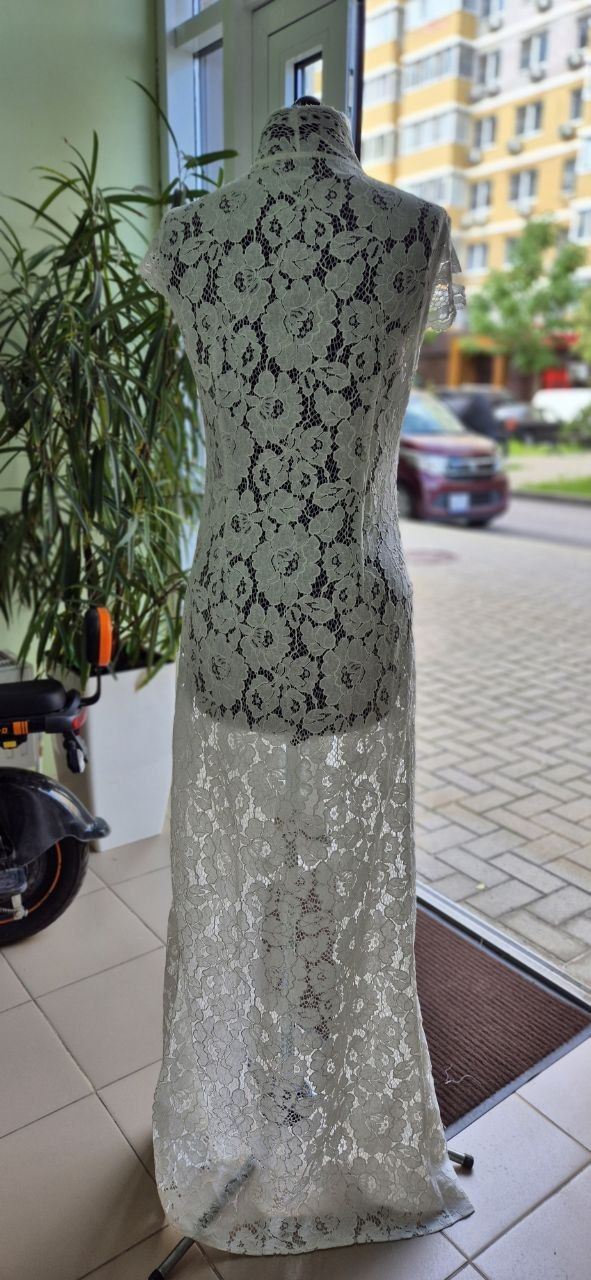
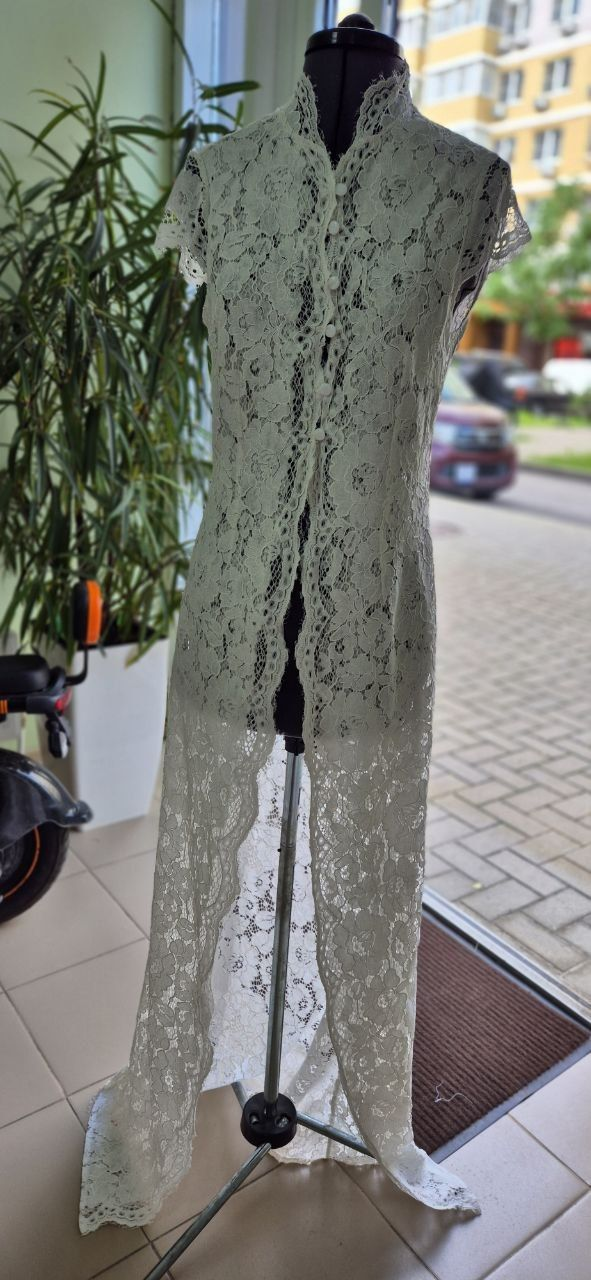
Первое фото галереи заменено на вид спереди
Тот же кружевной комплект, но видно перёд: застёжка на пуговицах
и разрез. Подпись уточнена — «с накидкой на пуговицах».
Меняются оба места сразу: витрина на главной и раздел
«Личные работы», файл один.

diff --git a/gallery.html b/gallery.html
@@ -89,7 +89,7 @@
       </header>
       <div class="masonry stagger">
         <button class="shot reveal" type="button" data-full="/photos/own1-kruzhevo-big.jpg">
-          <img src="/photos/own1-kruzhevo.jpg" alt="Кружевное платье в пол, сшитое в ателье" loading="lazy">
+          <img src="/photos/own1-kruzhevo.jpg" alt="Кружевное платье в пол с накидкой на пуговицах, сшитое в ателье" loading="lazy">
         </button>
         <button class="shot reveal" type="button" data-full="/photos/own2-payetki-big.jpg">
           <img src="/photos/own2-payetki.jpg" alt="Комплект из пайеток: топ и длинная юбка" loading="lazy">

diff --git a/index.html b/index.html
@@ -286,7 +286,7 @@
 
       <div class="gallery teaser stagger">
         <button class="shot reveal" type="button" data-full="/photos/own1-kruzhevo-big.jpg">
-          <img src="/photos/own1-kruzhevo.jpg" alt="Кружевное платье в пол, сшитое в ателье" loading="lazy">
+          <img src="/photos/own1-kruzhevo.jpg" alt="Кружевное платье в пол с накидкой на пуговицах, сшитое в ателье" loading="lazy">
         </button>
         <button class="shot reveal" type="button" data-full="/photos/b02-goroh-cherny-big.jpg">
           <img src="/photos/b02-goroh-cherny.jpg" alt="Чёрное платье в крупный горох" loading="lazy">
